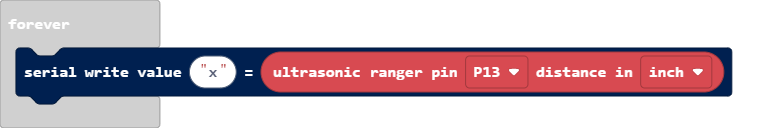
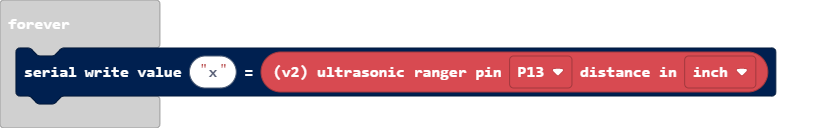
Update main.blocks, main.ts

diff --git a/main.ts b/main.ts
@@ -1,3 +1,3 @@
 basic.forever(function () {
-    serial.writeValue("x", hackbit.measureDistanceCentimeter(DigitalPin.P13, hackbit.DistanceUnit.inch))
+    serial.writeValue("x", hackbit.measureDistanceCentimeter_v2(DigitalPin.P13, hackbit.DistanceUnit.inch))
 })
